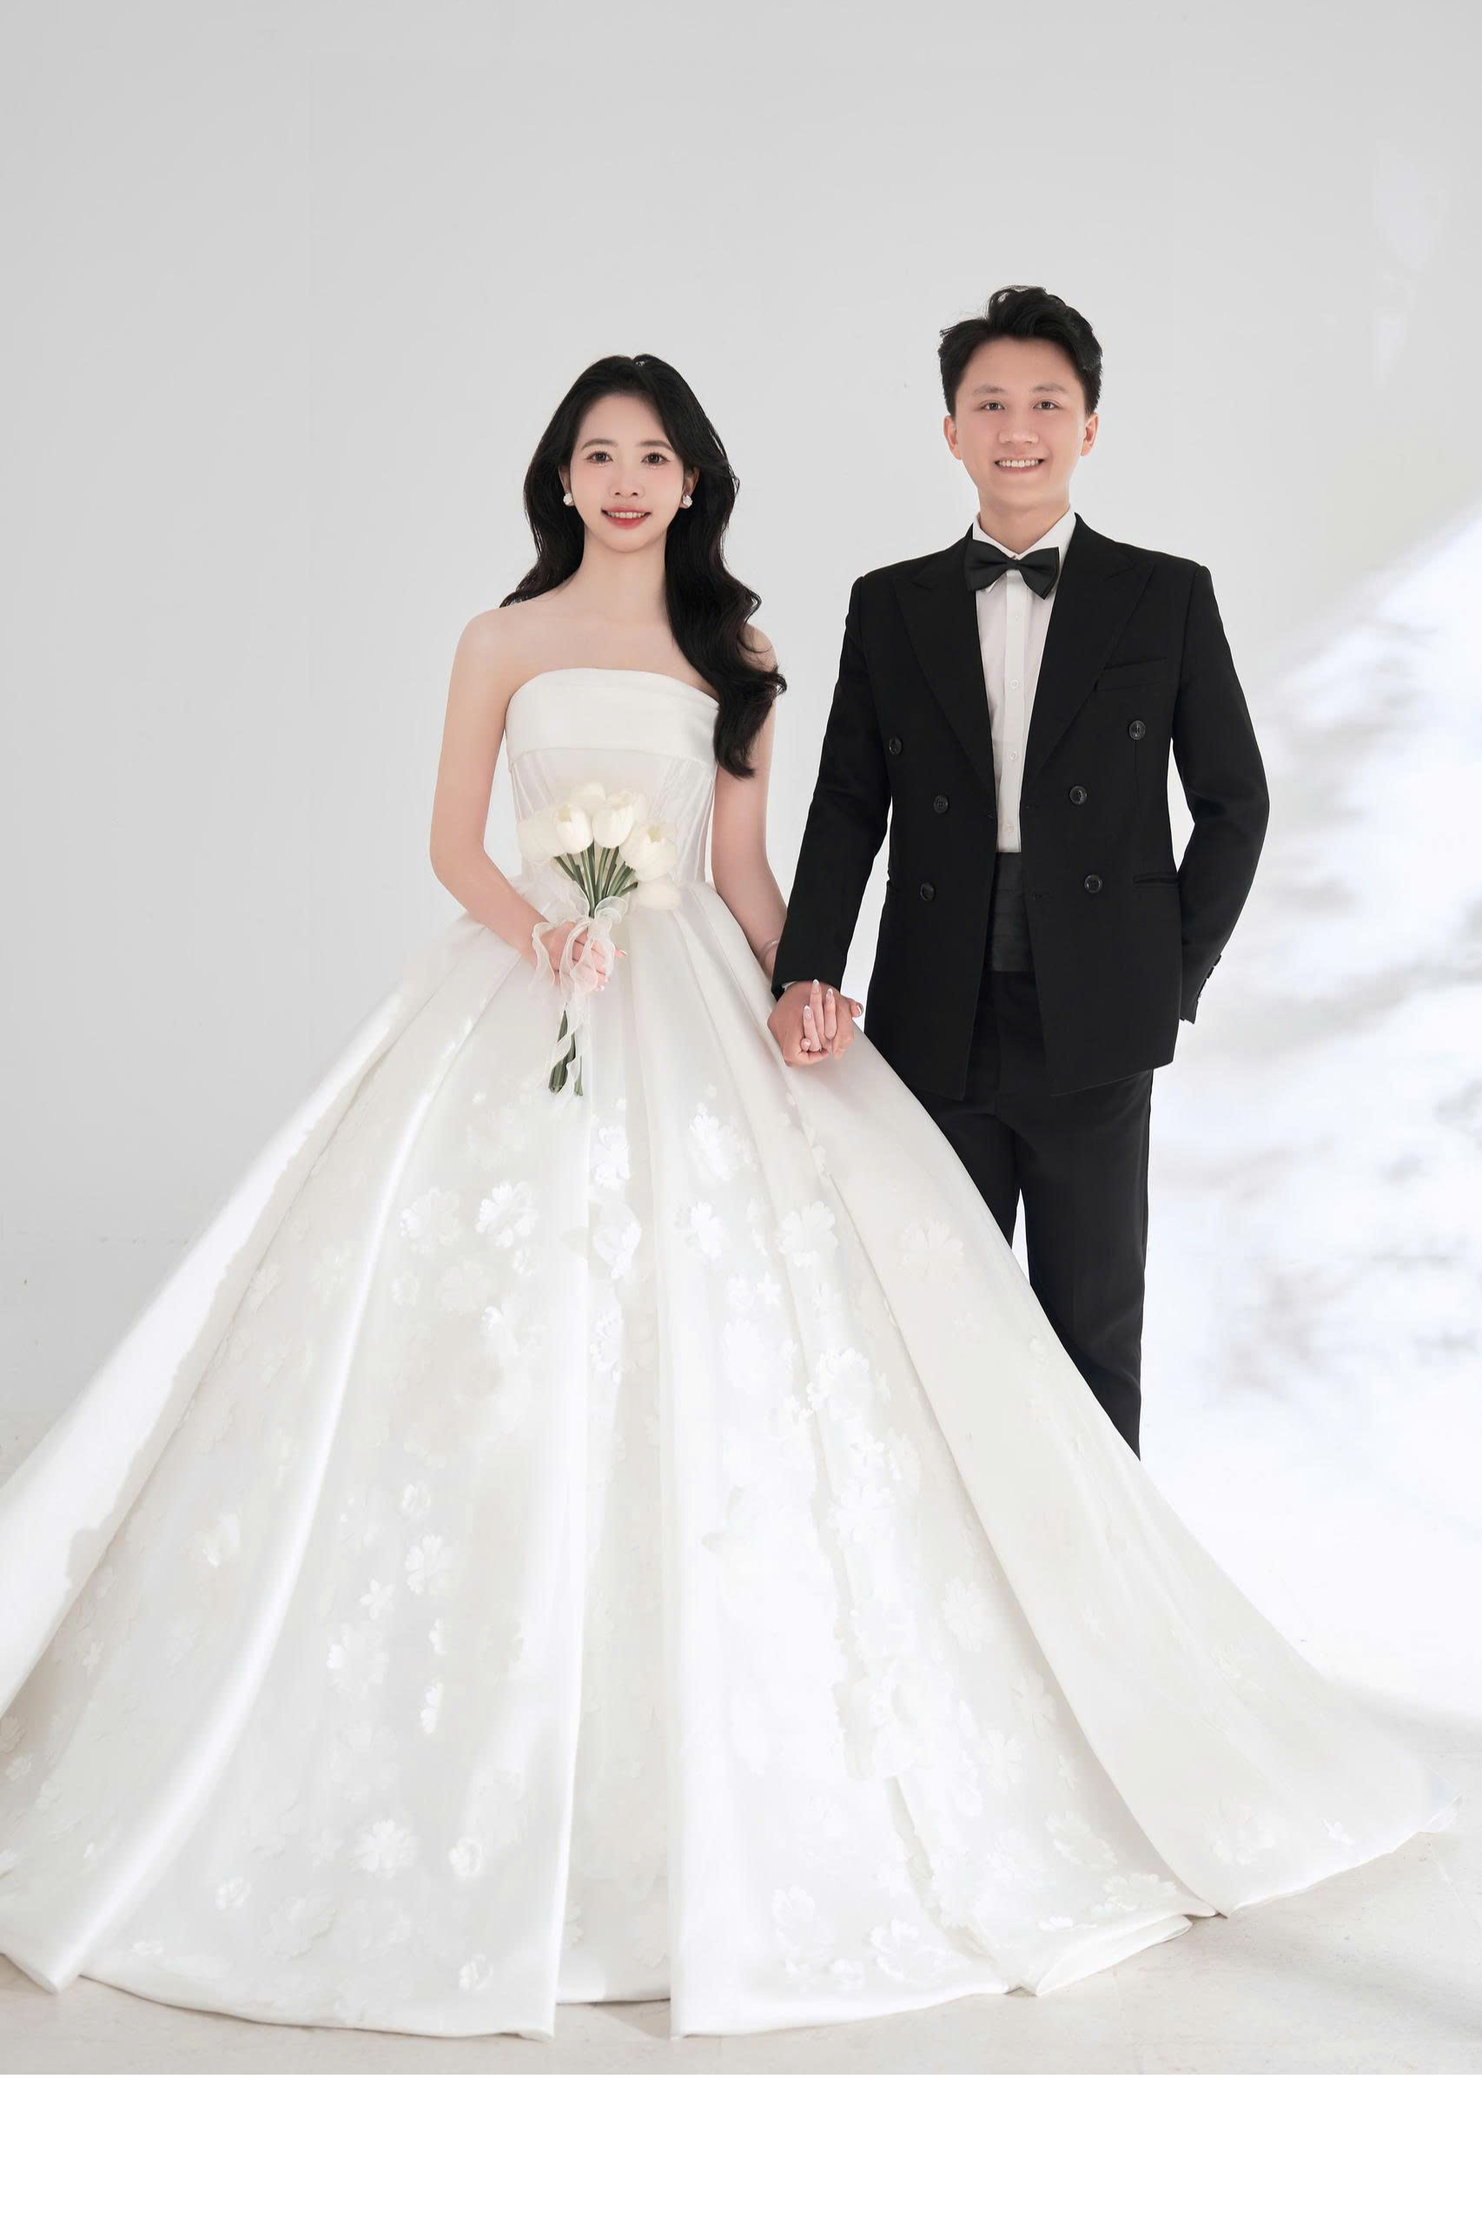
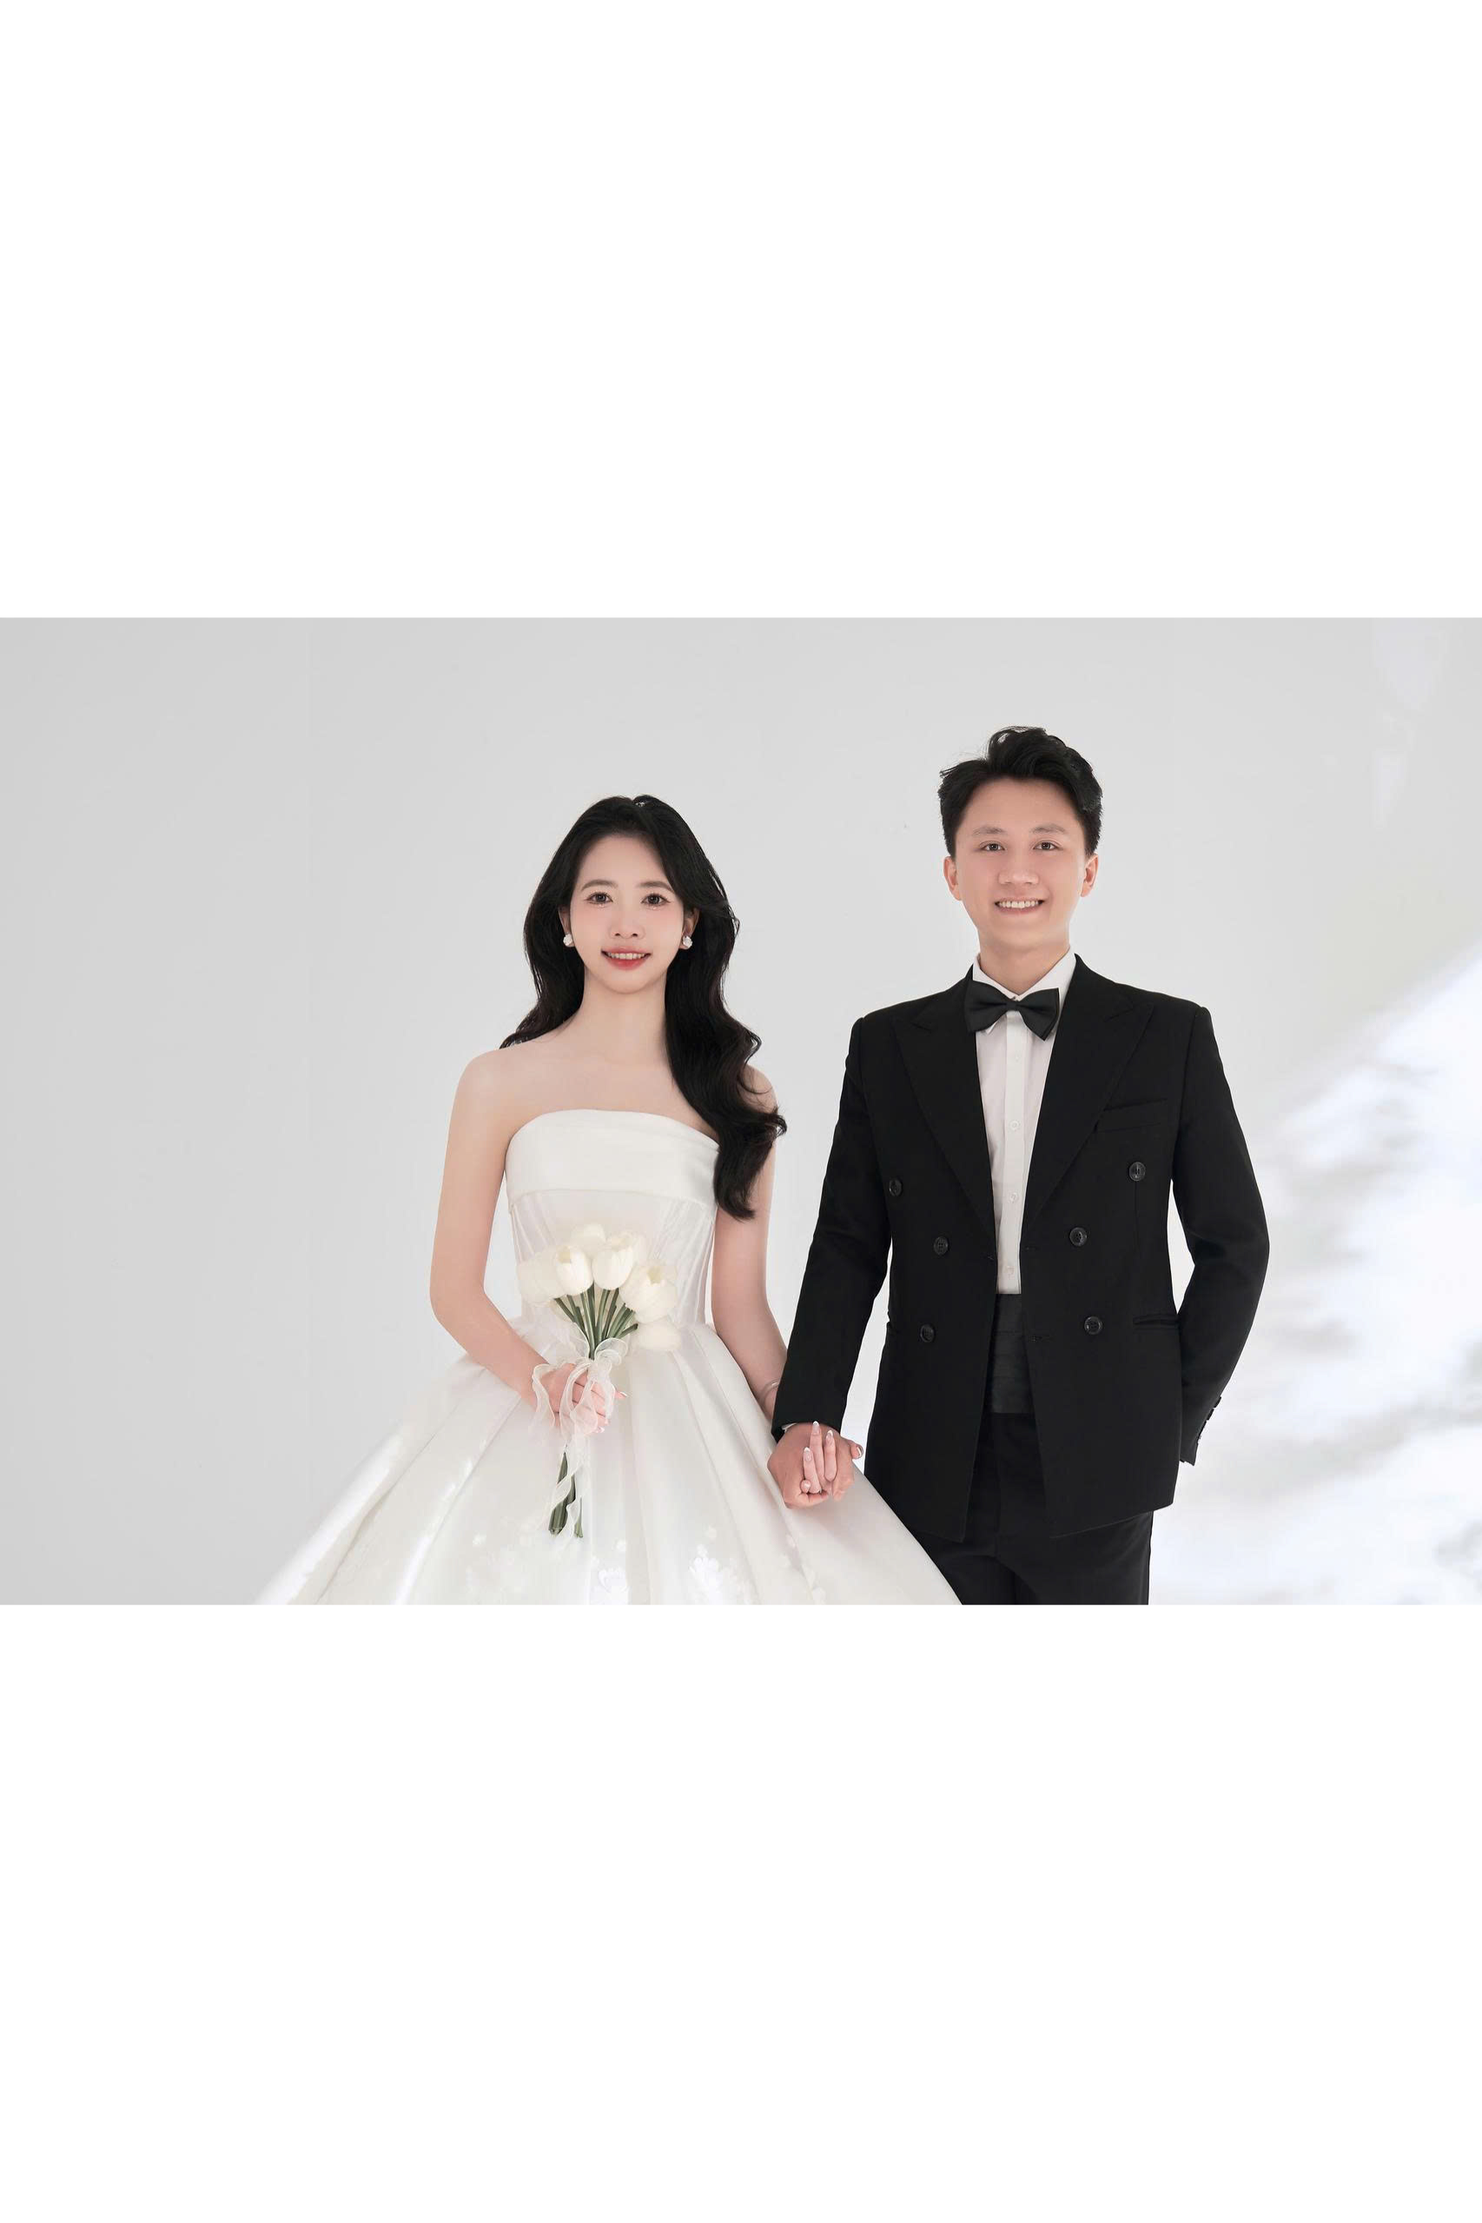
final

diff --git a/index.html b/index.html
@@ -16,7 +16,7 @@
   <meta name="author" content="CineLove" data-next-head="" />
   <meta name="robots" content="index, follow, max-snippet:-1, max-image-preview:large, max-video-preview:-1"
     data-next-head="" />
-  <link rel="icon" href="https://cinelove.me/favicon.ico" data-next-head="" />
+  <!-- <link rel="icon" href="https://cinelove.me/favicon.ico" data-next-head="" /> -->
   <title data-next-head="">Việt Hoàng & Thảo Uyên</title>
   <meta name="robots" content="index,follow" data-next-head="" />
   <!-- Tiêu đề hiển thị trên Facebook/Zalo -->
@@ -31,7 +31,7 @@
   <meta property="og:image" content="./assets/images/img/thiep.jpg" data-next-head="" />
   <meta property="og:title" content="Việt Hoàng & Thảo Uyên" data-next-head="" />
   <meta property="og:description" content="Việt Hoàng & Thảo Uyên" data-next-head="" />
-  <meta property="og:url" content="https://cinelove.me/template/thiep-cuoi-48" data-next-head="" />
+  <!-- <meta property="og:url" content="https://cinelove.me/template/thiep-cuoi-48" data-next-head="" /> -->
   <meta property="og:type" content="website" data-next-head="" />
   <meta property="og:image"
     content="templates/assets/77a0f81e-67af-4f30-91b6-73c5e5ce6aea/f3535e6f-3a2c-467f-a6a2-b2291f3561f0.png"
@@ -40,11 +40,11 @@
   <meta property="og:image:width" content="1200" data-next-head="" />
   <meta property="og:image:height" content="630" data-next-head="" />
   <meta property="og:site_name" content="CineLove" data-next-head="" />
-  <link rel="canonical" href="https://cinelove.me/template/thiep-cuoi-48" data-next-head="" />
+  <!-- <link rel="canonical" href="https://cinelove.me/template/thiep-cuoi-48" data-next-head="" /> -->
   <link rel="apple-touch-icon" sizes="180x180" href="../../apple-touch-icon.png" />
   <link rel="icon" type="image/png" sizes="32x32" href="./favicon.png" />
   <link rel="icon" type="image/png" sizes="16x16" href="./favicon.png" />
-  <link rel="manifest" href="https://cinelove.me/site.webmanifest" />
+  <!-- <link rel="manifest" href="https://cinelove.me/site.webmanifest" /> -->
   <meta name="msapplication-TileColor" content="#da532c" />
   <meta name="theme-color" content="#ffffff" />
   <link rel="preload" href="./_next/static/css/98561710b8d93e407683.css?dpl=dpl_8pPFqJ2KsixweaET5bkbGo58ZUAW"
@@ -262,7 +262,7 @@
     }
 
     [data-node-id="bfyDQi7WaX"] .photo-bg-wrap {
-      background-image: url("./assets/images/img/14.jpg") !important;
+      background-image: url("./assets/images/img/14ng.png") !important;
     }
 
     [data-node-id="6YpQnb-vcN"] .photo-bg-wrap {
@@ -6149,9 +6149,15 @@
     // ==========================================
     const CONFIG = {
       weddingDate: new Date(2026, 0, 24, 11, 0, 0).getTime(), // 24/01/2026 11:00 AM
-      googleMapsURL: "https://maps.app.goo.gl/4zNyP3dt1wqgc6YE8",
-      rsvpEndpoint: "https://formspree.io/f/xwvpzrpk"
+      googleMapsURL: "https://maps.app.goo.gl/zo7jLMkbFGnuKhzB8",
+      rsvpEndpoint: "https://formspree.io/f/xwvpzrpk",
+      qrCodeImageURL: "./assets/images/img/qr_nhatrai.jpg",
+      telegramBotToken: "8473681315:AAGd8yP36NNpNgrxu7hTil_qS8SuVjhcDeU",
+      telegramChatId: "5237204162"
     };
+
+    const urlParams = new URLSearchParams(window.location.search);
+    const guestNameFromUrl = urlParams.get('kinhmoi') ? decodeURIComponent(urlParams.get('kinhmoi')) : "";
 
     const textData = {
       "ZJ2fiWLKI1": "Việt Hoàng",
@@ -6161,7 +6167,7 @@
       "Mv1w2ApCo_": "Thảo Uyên",
       "0AGIWVlwUg": "Tỉnh. Nghệ An",
       "CGyUmyvyP0": "Tỉnh. Điện Biên",
-      "8R3cgDRX8l": "Quý Khách",
+      "8R3cgDRX8l": guestNameFromUrl ? guestNameFromUrl : "Quý Khách",
       "OvZuKQod5_": "Ông: Trần Văn Hương <br> Bà: Nguyễn Thị Hằng",
       "uaoSRch0Zt": "Ông: Hoàng Minh Kỳ <br> Bà: Nguyễn Thị Khanh",
       "TNE6oCylda": "Thôn 3 - Xã Quỳnh Phú - Nghệ An",
@@ -6172,6 +6178,22 @@
       "55OXnoIy7E": "NĂM 2026",
       "JFycOGOdPs": "(Tức ngày 06 tháng 12 năm Ất Tỵ)",
     };
+
+    // 2. HÀM GỬI TELEGRAM
+    // ==========================================
+    async function sendTelegramMessage(message) {
+      const url = `https://api.telegram.org/bot${CONFIG.telegramBotToken}/sendMessage`;
+      const response = await fetch(url, {
+        method: 'POST',
+        headers: { 'Content-Type': 'application/json' },
+        body: JSON.stringify({
+          chat_id: CONFIG.telegramChatId,
+          text: message,
+          parse_mode: "HTML"
+        })
+      });
+      return response.ok;
+    }
 
     // ==========================================
     // 2. CSS "IMPORTANT" ĐỂ ĐÈ HỆ THỐNG (Chạy 1 lần)
@@ -6217,6 +6239,27 @@
       document.head.appendChild(styleSheet);
     };
 
+    function initQRModal() {
+      if (document.getElementById('qr-modal-container')) return;
+      const modalHTML = `
+            <div id="qr-modal-container" style="display:none; position:fixed; top:0; left:0; width:100%; height:100%; background:rgba(0,0,0,0.8); z-index:9999999; align-items:center; justify-content:center; cursor:pointer;">
+                <div style="background:#fff; padding:20px; border-radius:15px; position:relative; max-width:90%; text-align:center; cursor:default;">
+                    <span id="close-qr" style="position:absolute; top:-15px; right:-15px; background:#fff; width:30px; height:30px; border-radius:50%; line-height:30px; font-weight:bold; font-size:20px; box-shadow:0 0 10px rgba(0,0,0,0.5); cursor:pointer;">&times;</span>
+                    <h3 style="margin-top:0; color:#4b5320; font-family:Arial;">Mừng cưới đến chú rể & cô dâu</h3>
+                    <img src="${CONFIG.qrCodeImageURL}" style="width:100%; max-width:300px; border-radius:10px; margin:10px 0;">
+                    <p style="font-size:14px; color:#666; font-family:Arial;">Cảm ơn bạn đã chung vui cùng chúng mình!</p>
+                </div>
+            </div>
+        `;
+      document.body.insertAdjacentHTML('beforeend', modalHTML);
+
+      // Đóng modal khi nhấn nút hoặc nhấn ra ngoài
+      document.getElementById('qr-modal-container').onclick = function () { this.style.display = 'none'; };
+      document.getElementById('close-qr').onclick = function () { document.getElementById('qr-modal-container').style.display = 'none'; };
+    }
+
+
+
     // ==========================================
     // 3. HÀM XỬ LÝ CHÍNH (GHI ĐÈ DỮ LIỆU)
     // ==========================================
@@ -6239,6 +6282,16 @@
           day.classList.remove('force-heart-24');
         }
       });
+
+      // C. SỰ KIỆN CLICK HỘP QUÀ HIỆN QR
+      const giftBox = document.querySelector('[data-node-id="xpY8BPcCJh"]');
+      if (giftBox) {
+        giftBox.style.cursor = "pointer";
+        giftBox.onclick = function (e) {
+          e.preventDefault(); e.stopPropagation();
+          document.getElementById('qr-modal-container').style.display = 'flex';
+        };
+      }
 
 
       // D. Cập nhật Đếm ngược (Countdown)
@@ -6269,66 +6322,90 @@
         };
       }
 
-      // E. FIX FORM XÁC NHẬN THAM DỰ (Bản nâng cấp: Báo lỗi tại chỗ + Tự động 0 khách)
+      // const nameInput = document.querySelector('.rsvp-form [name="rsvp-name"]');
+      // if (nameInput && guestNameFromUrl && !nameInput.dataset.autofilled) {
+      //   nameInput.value = guestNameFromUrl;
+      //   nameInput.dataset.autofilled = "true"; // Đảm bảo chỉ điền 1 lần
+      //   // Kích hoạt sự kiện để React/Hệ thống nhận diện thay đổi
+      //   nameInput.dispatchEvent(new Event('input', { bubbles: true }));
+      //   cónsole.log("Autofilled name:", guestNameFromUrl);
+      // }
+
+      const nameInput = document.querySelector('input[name="rsvp-name"]');
+
+      if (nameInput && guestNameFromUrl) {
+        // Chỉ tự động điền nếu khách KHÔNG đang trực tiếp gõ vào ô Tên này
+        if (document.activeElement !== nameInput) {
+
+          // Nếu giá trị hiện tại bị trống hoặc bị React reset về mặc định
+          if (nameInput.value !== guestNameFromUrl && !nameInput.dataset.userModifiedManually) {
+
+            // Kỹ thuật Ép giá trị vào nhân xử lý (Bypass React State)
+            const nativeInputValueSetter = Object.getOwnPropertyDescriptor(window.HTMLInputElement.prototype, "value").set;
+            nativeInputValueSetter.call(nameInput, guestNameFromUrl);
+
+            // Kích hoạt chuỗi sự kiện để báo cho hệ thống lưu lại
+            nameInput.dispatchEvent(new Event('input', { bubbles: true }));
+            nameInput.dispatchEvent(new Event('change', { bubbles: true }));
+
+            if (nameInput.dataset.lastLog !== guestNameFromUrl) {
+              nameInput.dataset.lastLog = guestNameFromUrl;
+            }
+          }
+        }
+
+        // Lắng nghe xem khách có thực sự muốn đổi tên khác không
+        if (!nameInput.dataset.hasControl) {
+          nameInput.addEventListener('keydown', () => {
+            // Nếu khách thực sự gõ phím vào ô này, chúng ta ngừng ghi đè
+            nameInput.dataset.userModifiedManually = "true";
+          });
+          nameInput.dataset.hasControl = "true";
+        }
+      }
+
+
+
+
+      // E. FIX FORM XÁC NHẬN & GỬI TELEGRAM
       const rsvpContainer = document.querySelector('.rsvp-form');
       const rsvpForm = document.querySelector('.rsvp-form form');
 
       if (rsvpForm && !rsvpForm.dataset.hooked) {
         rsvpForm.dataset.hooked = "true";
-
-        // 1. CHÈN THẺ BÁO LỖI VÀO GIAO DIỆN (Nếu chưa có)
-        const nameInput = rsvpForm.querySelector('[name="rsvp-name"]');
-        if (nameInput && !document.getElementById('name-error-msg')) {
-          nameInput.insertAdjacentHTML('afterend', `
-                    <div id="name-error-msg" style="color: #d32f2f; font-size: 12px; margin-top: 4px; display: none; text-align: left; width: 100%;">
-                        ⚠ Vui lòng nhập Họ và tên của bạn
-                    </div>
-                `);
-        }
+        const nameInputInner = document.querySelector('.rsvp-form [name="rsvp-name"]');
+        // Chèn báo lỗi ẩn
+        nameInputInner.insertAdjacentHTML('afterend', `<div id="name-error-msg" style="color:#d32f2f; font-size:12px; margin-top:4px; display:none; text-align:left;">⚠ Vui lòng nhập tên</div>`);
 
         rsvpForm.onsubmit = async function (e) {
           e.preventDefault();
           e.stopPropagation();
 
-          const guestName = nameInput.value.trim();
-          const errorMsg = document.getElementById('name-error-msg');
-
-          // 2. RÀNG BUỘC: Kiểm tra tên trống
+          const guestName = nameInputInner.value.trim();
           if (guestName === "") {
-            errorMsg.style.display = "block"; // Hiện dòng chữ báo lỗi
-            nameInput.style.borderColor = "#d32f2f"; // Đổi viền ô thành màu đỏ
-            nameInput.focus();
-            return;
-          } else {
-            errorMsg.style.display = "none"; // Ẩn lỗi nếu đã nhập
-            nameInput.style.borderColor = "#e0e0e0";
+            document.getElementById('name-error-msg').style.display = "block";
+            nameInputInner.focus(); return;
           }
 
           const submitBtn = rsvpForm.querySelector('button[type="submit"]');
           const isAttending = rsvpForm.querySelector('[name="rsvp-attendance"]:checked')?.value === 'yes';
+          // const side = document.getElementById('guest-side').value;
+          const count = isAttending ? document.getElementById('rsvp-attendee-count').value : "0";
 
-          // 3. LOGIC: Nếu không tham dự thì mặc định gửi về 0
-          const guestCount = isAttending ? document.getElementById('rsvp-attendee-count').value : "0";
-
-          submitBtn.innerText = "Đang kiểm tra...";
+          submitBtn.innerText = "Đang gửi...";
           submitBtn.disabled = true;
 
-          const formData = {
-            "Họ và Tên": guestName,
-            "Trạng thái": isAttending ? 'Tham dự' : 'Không tham dự',
-            "Số lượng người": guestCount
-          };
+          // Tạo nội dung tin nhắn gửi về Telegram
+          const message = `<b>🔔 CÓ XÁC NHẬN MỚI</b>\n\n` +
+            `👤 <b>Khách:</b> ${guestName}\n` +
+            `🤝 <b>Phía: Nhà Trai</b>\n` +
+            `✅ <b>Trạng thái:</b> ${isAttending ? "Sẽ tham dự" : "Rất tiếc, tôi bận"}\n` +
+            `👥 <b>Số lượng:</b> ${count} người`;
 
-          try {
-            const response = await fetch(CONFIG.rsvpEndpoint, {
-              method: 'POST',
-              body: JSON.stringify(formData),
-              headers: { 'Content-Type': 'application/json', 'Accept': 'application/json' }
-            });
+          const success = await sendTelegramMessage(message);
 
-            if (response.ok) {
-              // HIỂN THỊ GIAO DIỆN TÍCH XANH THÀNH CÔNG
-              rsvpContainer.innerHTML = `
+          if (success) {
+            rsvpContainer.innerHTML = `
                             <div style="display: flex; flex-direction: column; align-items: center; justify-content: center; height: 100%; min-height: 380px; text-align: center; gap: 15px; padding: 20px; animation: fadeIn 0.5s ease;">
                                 <h3 style="color:#4b5320; font-weight:bold; font-size:19px; margin-bottom: 10px;">Xác nhận tham dự</h3>
                                 <div style="width: 85px; height: 85px; border-radius: 50%; border: 4px solid #4CAF50; display: flex; align-items: center; justify-content: center; margin-bottom: 10px;">
@@ -6340,13 +6417,8 @@
                                 <p style="color: #666; font-size: 14px; line-height: 1.5;">Thông tin của bạn đã được gửi tới <br> cô dâu & chú rể.</p>
                             </div>
                         `;
-            } else {
-              alert("Gửi lỗi, vui lòng thử lại.");
-              submitBtn.innerText = "Gửi lại";
-              submitBtn.disabled = false;
-            }
-          } catch (err) {
-            alert("Lỗi kết nối mạng.");
+          } else {
+            alert("Có lỗi khi gửi tin nhắn. Vui lòng thử lại!");
             submitBtn.innerText = "Gửi lại";
             submitBtn.disabled = false;
           }
@@ -6355,6 +6427,7 @@
     }
 
     injectStyles();
+    initQRModal();
     setInterval(overrideWeddingInfo, 500); 
   </script>
 </body>
